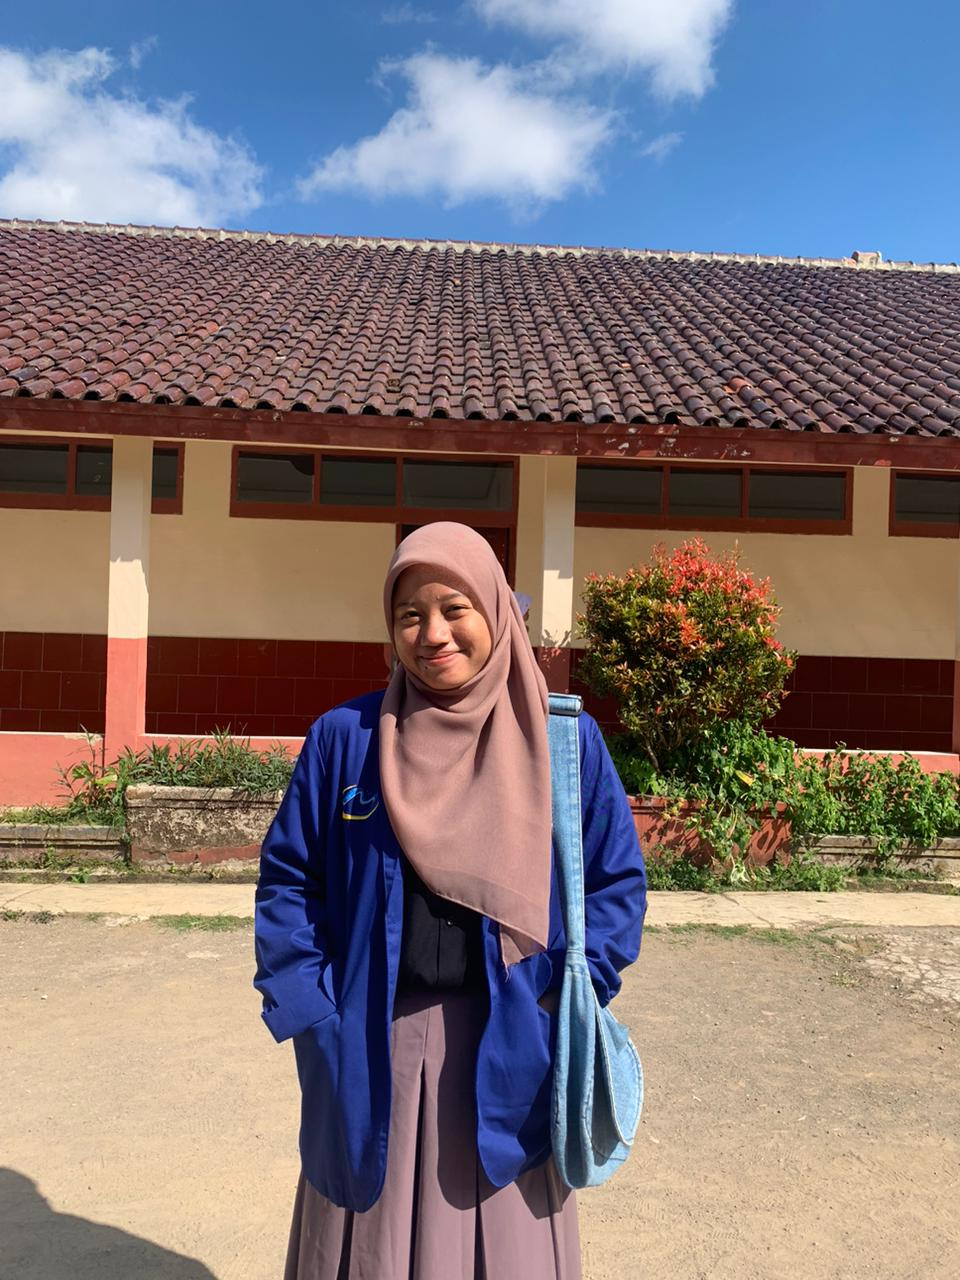
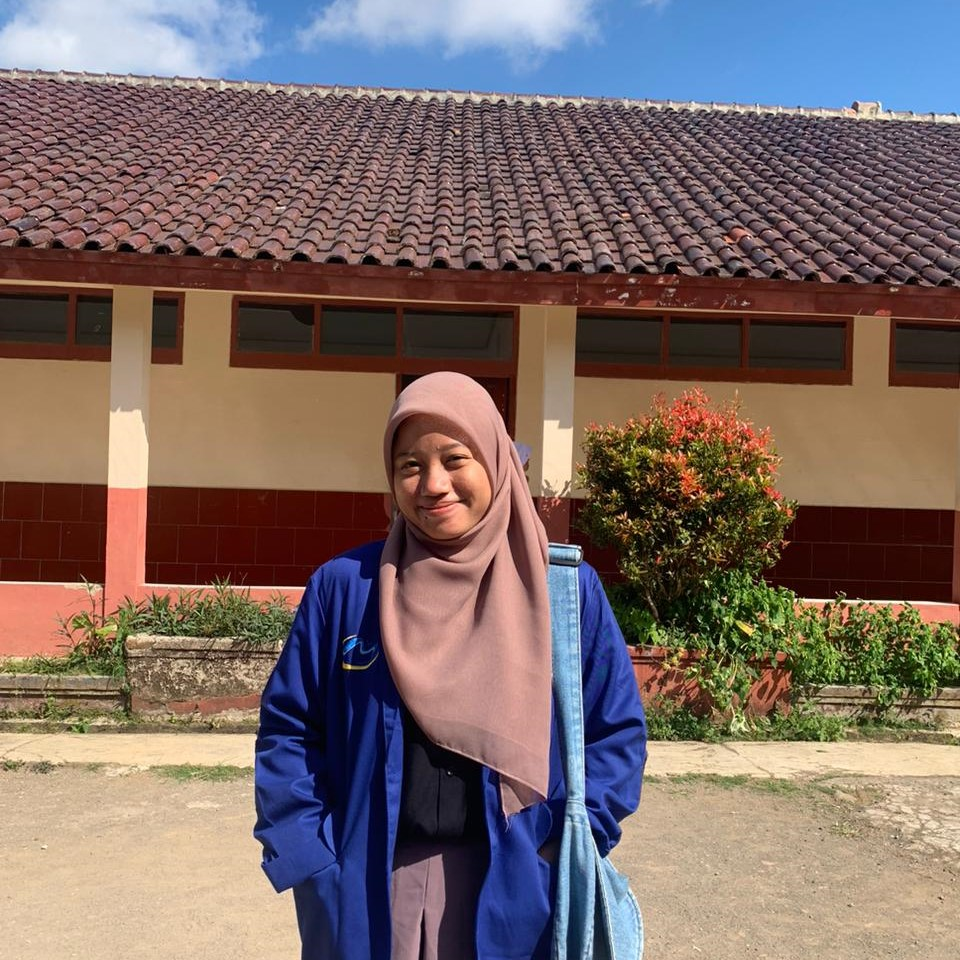
add img, html filter

diff --git a/index.html b/index.html
@@ -122,15 +122,31 @@
                           <a href="#">Link 2</a>
                           <a href="#">Link 3</a>
                         </div>
-                      </div>
-                      <div class="dropdown">
+                    </div>
+                    <div class="dropdown">
                         <button id="lokasibtn">Machine</button>
                         <div class="dropdown-content">
                           <a href="#">Link 1</a>
                           <a href="#">Link 2</a>
                           <a href="#">Link 3</a>
                         </div>
-                      </div>
+                    </div>
+                    <div class="dropdown">
+                        <button id="lokasibtn">Kategori</button>
+                        <div class="dropdown-content">
+                          <a href="#">Link 1</a>
+                          <a href="#">Link 2</a>
+                          <a href="#">Link 3</a>
+                        </div>
+                    </div>
+                    <div class="dropdown">
+                        <button id="lokasibtn">Produk</button>
+                        <div class="dropdown-content">
+                          <a href="#">Link 1</a>
+                          <a href="#">Link 2</a>
+                          <a href="#">Link 3</a>
+                        </div>
+                    </div>
                 </div>
             </div>
         </section>
@@ -188,7 +204,9 @@
                     </div>
                 </div>
                 <div class="profile-content">
-                    <div class="profile"></div>
+                    <div class="profile">
+                        <img src="Assets/Profile/Ryan.jpg" alt="">
+                    </div>
                     <div class="name">
                     <p>Ryan Agus Nugraha <br> Deployment Team</p><br>
                     </div>
